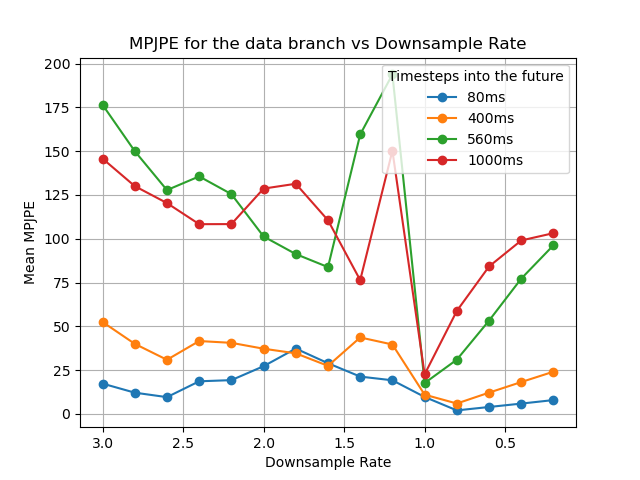
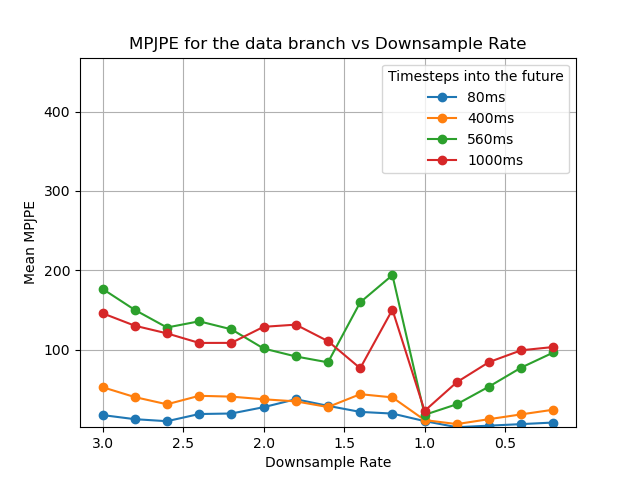
Update the gifs and create graphs with same limits

diff --git a/exps/run/single_evaluate_physmop.py b/exps/run/single_evaluate_physmop.py
@@ -97,8 +97,10 @@ if __name__ == "__main__":
             gt_J, pred_J_data, pred_J_physics_gt, pred_J_fusion = realtime_model.model_output_to_3D_joints(model_output, batch_info, mode='test')
 
             # visualize_continuous_motion(gt_J, title="Ground Truth Motion", skeleton_type="amass")
-            visualize_motion_with_ground_truth(pred_J_data.cpu().detach().numpy(), gt_J.cpu().detach().numpy(), title="Predicted vs Ground Truth Motion (Data)",
-                                                skeleton_type="amass", save_gif_path="output_{}.gif".format(downsample_rate))
+            # visualize_motion_with_ground_truth(pred_J_data.cpu().detach().numpy(), gt_J.cpu().detach().numpy(), title="Predicted vs Ground Truth Motion (Data)",
+            #                                     skeleton_type="amass", save_gif_path="output_data_{}.gif".format(downsample_rate))
+            # visualize_motion_with_ground_truth(pred_J_physics_gt.cpu().detach().numpy(), gt_J.cpu().detach().numpy(), title="Predicted vs Ground Truth Motion (Physics)",
+            #                                     skeleton_type="amass", save_gif_path="output_physics_{}.gif".format(downsample_rate))
             eval_results = realtime_model.evaluation_metrics(gt_J, pred_J_data, pred_J_physics_gt, pred_J_fusion)
 
 
@@ -108,7 +110,6 @@ if __name__ == "__main__":
             mpjpe_physics_results.append(mpjpe_physics_gt[selected_indices])  # shape: (4,)
             mpjpe_fusion = np.mean([eval_results['error_test_fusion_upper'][0], eval_results['error_test_fusion_lower'][0]], axis=0)
             mpjpe_fusion_results.append(mpjpe_fusion[selected_indices])  # shape: (4,)
-        break
         mpjpe_data_all.append(np.array(mpjpe_data_results))  # shape: (num_downsample_rates, 4)
         mpjpe_physics_gt_all.append(np.array(mpjpe_physics_results))  # shape: (num_downsample_rates, 4)
         mpjpe_fusion_all.append(np.array(mpjpe_fusion_results))  # shape: (num_downsample_rates, 4)
@@ -136,6 +137,17 @@ if __name__ == "__main__":
         "fusion": "mpjpe_vs_downsample_rate_fusion.png"
     }
 
+    all_arrays = [
+    mpjpe_data_all,
+    mpjpe_physics_gt_all,
+    mpjpe_fusion_all
+    ]
+
+    all_data = np.concatenate([arr.flatten() for arr in all_arrays if arr is not None])
+    y_min = np.min(all_data[all_data > 0])  # Avoid zero for log scale
+    y_max = np.percentile(all_data, 100)
+    y_limits = (y_min, y_max)
+
     for branch, results in branch_results.items():
         plt.figure()
         for i, label in enumerate(["80ms", "400ms", "560ms", "1000ms"]):
@@ -146,5 +158,6 @@ if __name__ == "__main__":
         plt.gca().invert_xaxis()
         plt.grid(True)
         plt.legend(title='Timesteps into the future')
+        plt.ylim(y_limits)
         plt.savefig(branch_filenames[branch])
         plt.close()

diff --git a/exps/run/visualize_motion.py b/exps/run/visualize_motion.py
@@ -192,6 +192,7 @@ def visualize_motion_with_ground_truth(predicted_positions, ground_truth_positio
 
     if save_gif_path:
         ani.save(save_gif_path, writer=PillowWriter(fps=10))
+        plt.close()
     else:
         while True:
             plt.show()
